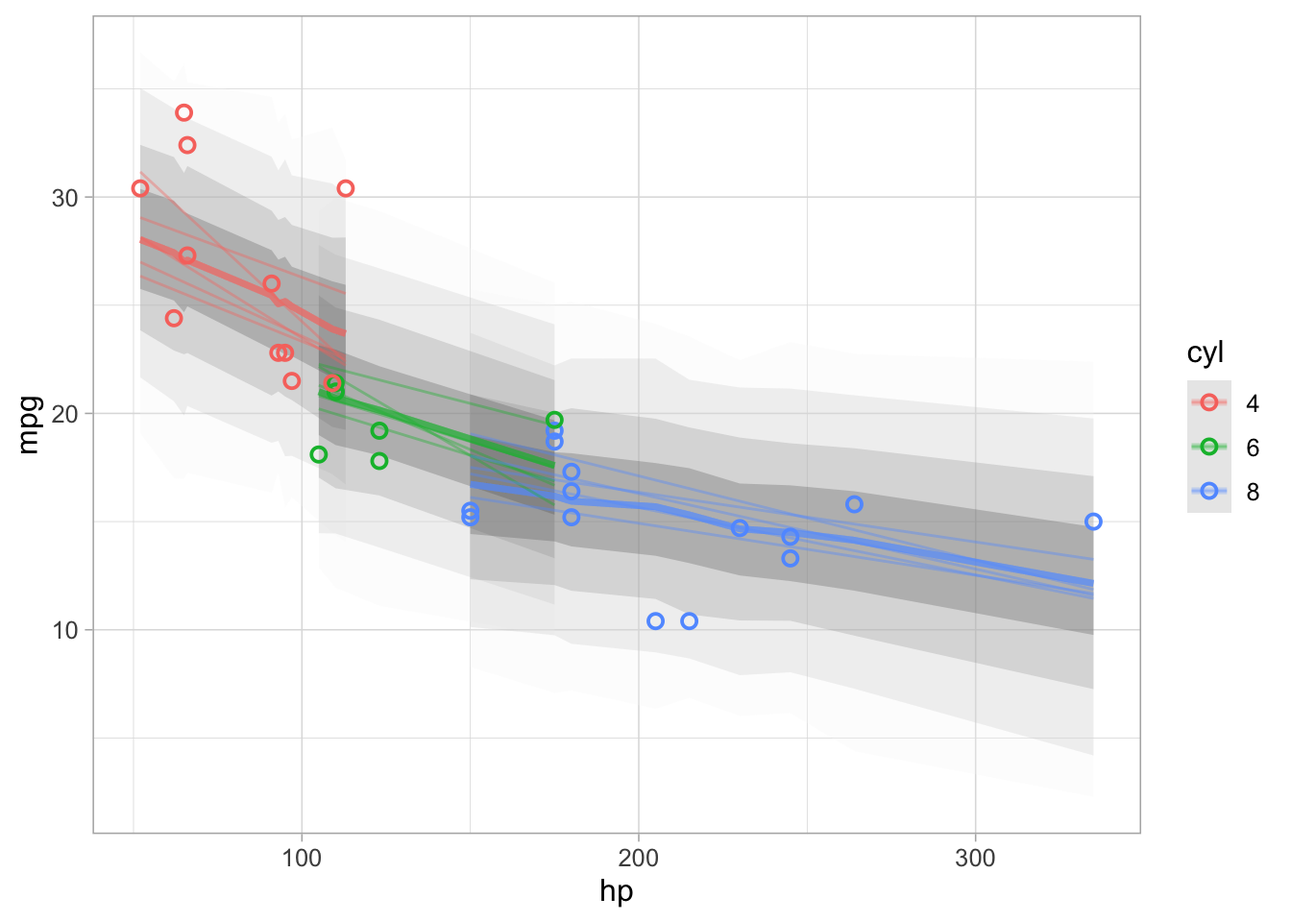
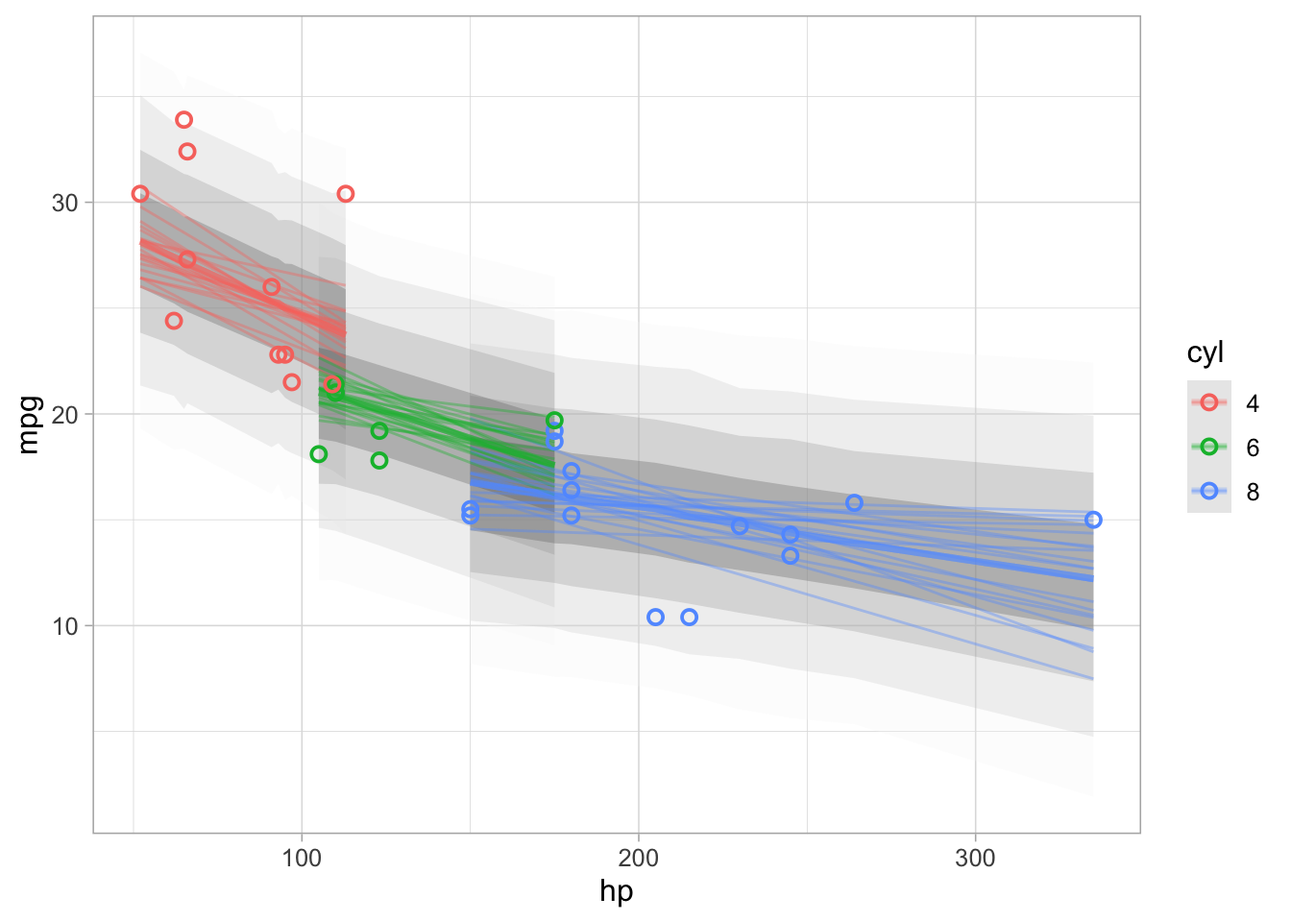
more and more edits, multiple chains

diff --git a/_site/posts/2025-05-31-reticulate-pymc/index.html b/_site/posts/2025-05-31-reticulate-pymc/index.html
@@ -190,12 +190,12 @@ pre > code.sourceCode > span > a:first-child::before { text-decoration: underlin
 
 <section id="bayesian-models-python-grammar-of-graphics-r" class="level2">
 <h2 class="anchored" data-anchor-id="bayesian-models-python-grammar-of-graphics-r">Bayesian models (Python) + grammar of graphics (R) = ❤</h2>
-<p>This is a nod to the title of <a href="https://drbenvincent.github.io/posts/mcmc_grammar_of_graphics.html">Benjamin T. Vincent’s blog post</a>, who inspired me to dive further into PyMC. The reason I started looking into using the grammar of graphics with PyMC, was to reduce a barrier and emulate <strong>tidyverse</strong> as much as possible. What if I instead just… use R and PyMC?</p>
-<p>This is also somewhat of a continuation of my <a href="../2025-05-14-tidy-pymc/">last post</a>, where I used the grammar of graphics to vizualize the posterior distributions from a PyMC model. This required extracting the data from the <code>arviz.InferenceData</code> object, and organizing it into a tidy dataframe to work with.</p>
+<p>The heading is a nod to the title of <a href="https://drbenvincent.github.io/posts/mcmc_grammar_of_graphics.html">Benjamin T. Vincent’s blog post</a> about using the grammar-of-graphics with PyMC, and what inspired me to look into different ways of working with PyMC.</p>
+<p>This is also somewhat of a continuation of my <a href="../2025-05-14-tidy-pymc/">previous post</a>, where I used the grammar-of-graphics to vizualize the posterior distributions from a PyMC model. Accomplishing this built on Vincent’s work by extracting the data from the high dimensional <code>arviz.InferenceData</code> object, and organizing it into a tidy dataframe to work with.</p>
 <section id="but-why" class="level3">
 <h3 class="anchored" data-anchor-id="but-why">But why?</h3>
-<p>In my last post, I incorrectly implemented the formula for the interaction model <code>mpg ~ hp * cyl</code>. I needed to explictly add in a variable so that we have <code>mpg ~ hp + cyl + hp:cyl</code>. To correct that, I’ve added the interaction variable that <code>lm()</code> or <code>brms:</code> would implicitly handle. Additionally, I centered the variables that would help prevent unnecessary divergece issues that would occur without it.</p>
-<p>This is what I enjoy about PyMC. In my opinion, it is a good blend of needing to be explicit with the data generating process, while still abstracting things like typing, loops, etc., and I find it great for learning. The only problem is is the lack of Tidyverse for everything before and after the model.</p>
+<p>In the first post, I implemented the formula incorrectly for the interaction model: <code>mpg ~ hp * cyl</code>. The interaction term needed to be explictly added in to look like: <code>mpg ~ hp + cyl + hp:cyl</code>. To rectify that I’ve added the interaction variable to the data passed into the model, which functions like <code>lm()</code> or <code>brms:brm()</code> would implicitly handle. Additionally, I centered the variables to help prevent unnecessary divergece issues.</p>
+<p>Striking the right balance of abstraction in Bayesian frameworks is delicate, and in my view, PyMC does a good job preserving the explicit structure of the data-generating process while abstracting away lower-level details like data types and iteration. Because of this, I find it a great tool for learning. With so much to learn in both the statistical theory and the frameworks of probablistic programming languages, anything to reduce the cognitive load is beneficial. Using the Tidyverse to express declaritve ways to work with data before and after the model fit can help.</p>
 <div class="callout callout-style-default callout-note callout-titled">
 <div class="callout-header d-flex align-content-center" data-bs-toggle="collapse" data-bs-target=".callout-1-contents" aria-controls="callout-1" aria-expanded="false" aria-label="Toggle callout">
 <div class="callout-icon-container">
@@ -208,19 +208,20 @@ Note
 </div>
 <div id="callout-1" class="callout-1-contents callout-collapse collapse">
 <div class="callout-body-container callout-body">
-<p>An R user is probably bewildered and still wondering <em>but why?</em> R has access to Stan and several packages that interface with it, including the brilliant <code>brms</code> package. Most R users are Stan users.</p>
-<p>I started out, like many others, with Statistical Rethinking by Richard McElreath<a href="#fn1" class="footnote-ref" id="fnref1" role="doc-noteref"><sup>1</sup></a>. However I abandoned the <code>rethinking</code> package too soon, and felt like I didn’t know enough to jump into Stan directly. At the same time I had no idea if <code>brms</code> was doing exactly what I expected when I started to work on my own messy real world examples, and that is where PyMC came in for me.</p>
+<p>An R user reading this is probably bewildered and still wondering <em>but why?</em> R has access to Stan and several packages that interface with it, including the brilliant <code>brms</code> package. Most R users are Stan users.</p>
+<p>I started out, like many others, with Statistical Rethinking by Richard McElreath<a href="#fn1" class="footnote-ref" id="fnref1" role="doc-noteref"><sup>1</sup></a>. As a longtime R user, the data wrangling was something I comfortable with. Trying to use base R and <code>rethinking</code> to work with the posterior ended up adding more friction while learning. I felt comfortable using <code>brms</code> and moved off of <code>rethininking</code>, but when it came to exploring my own real-world applications[^side-note] – I felt stuck. There was too much abstraction in <code>brms</code> and I didn’t know enough to jump into Stan directly. That is where I began to look at PyMC.</p>
+<p>McElreath intentionally built <code>rethinking</code> to be explicit and the course is designed to hammer in all sorts of regression techniques with it. For new folks diving into the course, I think I would reccommend using <code>rethinking</code> with <a href="https://mjskay.github.io/tidybayes.rethinking/articles/tidy-rethinking.html"><code>tidybayes.rethinking</code></a>. <code>rethinking</code> will force good fundementals building out the model, and you can still use <code>tidybayes</code> to work with the posterior in a tidy format.</p>
 </div>
 </div>
 </div>
 </section>
 <section id="how" class="level3">
 <h3 class="anchored" data-anchor-id="how">How</h3>
-<p>This was all doable before with Reticulate, but I recently had a chance to use the <a href="https://posit.co/blog/reticulate-1-41/">new version of Reticulate</a> which uses <code>uv</code> to manage the Python environment. I assumed you would need to some degree manage a seperate Python environment for anything signifcant. However, from the post:</p>
+<p>This was all doable before with Reticulate, but I recently had a chance to use the <a href="https://posit.co/blog/reticulate-1-41/">new version of Reticulate</a> which uses <code>uv</code> to manage the Python environment. I assumed you would need manage a seperate Python environment to some degree. However, from the post:</p>
 <blockquote class="blockquote">
 <p>with <code>py_require()</code>, Reticulate will automatically create and manage Python environments behind the scenes so you don’t have to.</p>
 </blockquote>
-<p>I had a use case to use it for a simple package integration, and it was wonderful. I came away thinking of ways to push it further.</p>
+<p>I used it for a simple package integration, but came away so impressed with its performance – all while not having to manage anything in Python. Reticulate handles the installation of <code>uv</code> if not already available, and will take care of everything else for you.</p>
 </section>
 </section>
 <section id="workflow" class="level2">
@@ -376,34 +377,32 @@ Note
 </section>
 <section id="reticulate-and-uv-environment" class="level3">
 <h3 class="anchored" data-anchor-id="reticulate-and-uv-environment">Reticulate and uv environment</h3>
-<p>The function <code>reticulate::py_require()</code> will specify which packages are needed for the project or workflow, and pass them to <code>uv</code> to resolve all the dependencies and create the Python virtual environment. This is feasible due to how performant <code>uv</code> is.</p>
-<p>I’ve listend to enough talks from Charlie Marsh<a href="#fn2" class="footnote-ref" id="fnref2" role="doc-noteref"><sup>2</sup></a> to know I can’t fully explain what <code>uv</code> does, but an oversimplification of it is that <code>uv</code> centralizes package downloads and resolves dependencies at the environment level so that you do not have to reinstall packages across environments.<a href="#fn3" class="footnote-ref" id="fnref3" role="doc-noteref"><sup>3</sup></a></p>
+<p>The function <code>reticulate::py_require()</code> will specify which packages are needed for the project or workflow, and pass them to <code>uv</code> to resolve all the dependencies for the Python virtual environment. This is feasible to do ephemerally due to how performant <code>uv</code> is.</p>
+<p>I’ve listend to enough talks from Charlie Marsh<a href="#fn2" class="footnote-ref" id="fnref2" role="doc-noteref"><sup>2</sup></a> to know I can’t do it justice to explain how <code>uv</code> works. An oversimplification of the process is that <code>uv</code> centralizes package downloads, and then resolves dependencies at the environment level so that you do not have to reinstall packages across environments.<a href="#fn3" class="footnote-ref" id="fnref3" role="doc-noteref"><sup>3</sup></a></p>
+<p>To use it with Reticulate, simply run:</p>
 <div class="cell">
 <div class="sourceCode cell-code" id="cb2"><pre class="sourceCode r code-with-copy"><code class="sourceCode r"><span id="cb2-1"><a href="#cb2-1" aria-hidden="true" tabindex="-1"></a><span class="fu">py_require</span>(<span class="st">'pymc'</span>)</span>
-<span id="cb2-2"><a href="#cb2-2" aria-hidden="true" tabindex="-1"></a><span class="fu">py_config</span>()</span></code><button title="Copy to Clipboard" class="code-copy-button"><i class="bi"></i></button></pre></div>
+<span id="cb2-2"><a href="#cb2-2" aria-hidden="true" tabindex="-1"></a><span class="fu">py_config</span>() <span class="co"># only if you want to look at the config</span></span></code><button title="Copy to Clipboard" class="code-copy-button"><i class="bi"></i></button></pre></div>
 <div class="cell-output cell-output-stdout">
-<pre><code>python:         /Users/ryan/Library/Caches/org.R-project.R/R/reticulate/uv/cache/archive-v0/gKtLQ4Ys-srj2T0OKKL-t/bin/python3
+<pre><code>python:         /Users/ryan/Library/Caches/org.R-project.R/R/reticulate/uv/cache/archive-v0/iNd5Zf03UOAIdigTZPziA/bin/python3
 libpython:      /Users/ryan/Library/Caches/org.R-project.R/R/reticulate/uv/python/cpython-3.11.12-macos-aarch64-none/lib/libpython3.11.dylib
-pythonhome:     /Users/ryan/Library/Caches/org.R-project.R/R/reticulate/uv/cache/archive-v0/gKtLQ4Ys-srj2T0OKKL-t:/Users/ryan/Library/Caches/org.R-project.R/R/reticulate/uv/cache/archive-v0/gKtLQ4Ys-srj2T0OKKL-t
-virtualenv:     /Users/ryan/Library/Caches/org.R-project.R/R/reticulate/uv/cache/archive-v0/gKtLQ4Ys-srj2T0OKKL-t/bin/activate_this.py
+pythonhome:     /Users/ryan/Library/Caches/org.R-project.R/R/reticulate/uv/cache/archive-v0/iNd5Zf03UOAIdigTZPziA:/Users/ryan/Library/Caches/org.R-project.R/R/reticulate/uv/cache/archive-v0/iNd5Zf03UOAIdigTZPziA
+virtualenv:     /Users/ryan/Library/Caches/org.R-project.R/R/reticulate/uv/cache/archive-v0/iNd5Zf03UOAIdigTZPziA/bin/activate_this.py
 version:        3.11.12 (main, May 30 2025, 05:53:55) [Clang 20.1.4 ]
-numpy:          /Users/ryan/Library/Caches/org.R-project.R/R/reticulate/uv/cache/archive-v0/gKtLQ4Ys-srj2T0OKKL-t/lib/python3.11/site-packages/numpy
+numpy:          /Users/ryan/Library/Caches/org.R-project.R/R/reticulate/uv/cache/archive-v0/iNd5Zf03UOAIdigTZPziA/lib/python3.11/site-packages/numpy
 numpy_version:  2.2.6
 
 NOTE: Python version was forced by py_require()</code></pre>
 </div>
 </div>
-<p>Wow! You can see that we have an ephemeral Python environment created with <code>uv</code> to use with <code>reticulate</code>. Everytime this document is rendered, <code>reticulate</code> and <code>uv</code> will cache a new virtual environment to use. PyMC and its dependencies only had to be downloaded the first time. Also shown via CLI is that this took only <code>456ms</code> on this machine.</p>
-</section>
-<section id="one-requirement-many-dependencies" class="level3">
-<h3 class="anchored" data-anchor-id="one-requirement-many-dependencies">one requirement, many dependencies</h3>
+<p>Wow! You can see that we have an ephemeral Python environment created with <code>uv</code> to be used with <code>reticulate</code>. Everytime this document is rendered, <code>reticulate</code> and <code>uv</code> will cache a new virtual environment to use. PyMC and all of its dependencies only had to be downloaded once. Not shown here but via CLI is that this process only took <code>456ms</code> on this machine.</p>
 <p>Specifying <code>pymc</code> with <code>py_require()</code> actually built a Python environment with a list of packages needed, all mapped and configured with <code>uv</code>. I’ve shown some of the most well-known dependencies included.</p>
 <div class="cell">
 <div class="sourceCode cell-code" id="cb4"><pre class="sourceCode r code-with-copy"><code class="sourceCode r"><span id="cb4-1"><a href="#cb4-1" aria-hidden="true" tabindex="-1"></a><span class="fu">py_list_packages</span>() <span class="sc">|&gt;</span> <span class="fu">dim</span>()</span></code><button title="Copy to Clipboard" class="code-copy-button"><i class="bi"></i></button></pre></div>
 <div class="cell-output cell-output-stdout">
 <pre><code>[1] 37  3</code></pre>
 </div>
-<div class="sourceCode cell-code" id="cb6"><pre class="sourceCode r code-with-copy"><code class="sourceCode r"><span id="cb6-1"><a href="#cb6-1" aria-hidden="true" tabindex="-1"></a><span class="fu">py_list_packages</span>() <span class="sc">|&gt;</span> dplyr<span class="sc">::</span><span class="fu">filter</span>(package <span class="sc">%in%</span> <span class="fu">c</span>(<span class="st">'pandas'</span>, <span class="st">'scipy'</span>, <span class="st">'matplotlib'</span>, <span class="st">'arviz'</span>))</span></code><button title="Copy to Clipboard" class="code-copy-button"><i class="bi"></i></button></pre></div>
+<div class="sourceCode cell-code" id="cb6"><pre class="sourceCode r code-with-copy"><code class="sourceCode r"><span id="cb6-1"><a href="#cb6-1" aria-hidden="true" tabindex="-1"></a><span class="fu">py_list_packages</span>() <span class="sc">|&gt;</span> dplyr<span class="sc">::</span><span class="fu">filter</span>(package <span class="sc">%in%</span> <span class="fu">c</span>(<span class="st">'pandas'</span>, <span class="st">'scipy'</span>, <span class="st">'matplotlib'</span>, <span class="st">'arviz'</span>, <span class="st">'pytensor'</span>))</span></code><button title="Copy to Clipboard" class="code-copy-button"><i class="bi"></i></button></pre></div>
 <div class="cell-output-display">
 <div class="kable-table">
 <table class="table table-sm table-striped small">
@@ -431,6 +430,11 @@ NOTE: Python version was forced by py_require()</code></pre>
 <td style="text-align: left;">pandas==2.2.3</td>
 </tr>
 <tr class="even">
+<td style="text-align: left;">pytensor</td>
+<td style="text-align: left;">2.31.3</td>
+<td style="text-align: left;">pytensor==2.31.3</td>
+</tr>
+<tr class="odd">
 <td style="text-align: left;">scipy</td>
 <td style="text-align: left;">1.15.3</td>
 <td style="text-align: left;">scipy==1.15.3</td>
@@ -443,7 +447,7 @@ NOTE: Python version was forced by py_require()</code></pre>
 </section>
 <section id="set-up-the-data" class="level3">
 <h3 class="anchored" data-anchor-id="set-up-the-data">Set up the data</h3>
-<p>As I mentioned before some transformations are needed, and it is great to be able to use the Tidyverse.</p>
+<p>As I mentioned before some basic transformations are needed, and it is great to be able to use the Tidyverse here. You can imagine a set of more complex joins, filters, and features created.</p>
 <div class="cell">
 <div class="sourceCode cell-code" id="cb7"><pre class="sourceCode r code-with-copy"><code class="sourceCode r"><span id="cb7-1"><a href="#cb7-1" aria-hidden="true" tabindex="-1"></a>mtcars_scaled <span class="ot">&lt;-</span> mtcars <span class="sc">%&gt;%</span></span>
 <span id="cb7-2"><a href="#cb7-2" aria-hidden="true" tabindex="-1"></a>  <span class="fu">mutate</span>(</span>
@@ -455,7 +459,7 @@ NOTE: Python version was forced by py_require()</code></pre>
 </section>
 <section id="r-to-python" class="level3">
 <h3 class="anchored" data-anchor-id="r-to-python">R to Python</h3>
-<p>PyMC doesn’t work with R, and will need objects and data types that it knows how to use. <code>reticulate::r_to_py()</code> will handle that.</p>
+<p>PyMC doesn’t work with R, and we will need objects and data types that it knows how to use. <code>reticulate::r_to_py()</code> will handle that.</p>
 <div class="cell">
 <div class="sourceCode cell-code" id="cb8"><pre class="sourceCode r code-with-copy"><code class="sourceCode r"><span id="cb8-1"><a href="#cb8-1" aria-hidden="true" tabindex="-1"></a>pandas_mtcars <span class="ot">&lt;-</span> <span class="fu">r_to_py</span>(mtcars_scaled)</span>
 <span id="cb8-2"><a href="#cb8-2" aria-hidden="true" tabindex="-1"></a><span class="fu">print</span>(<span class="fu">class</span>(mtcars_scaled))</span></code><button title="Copy to Clipboard" class="code-copy-button"><i class="bi"></i></button></pre></div>
@@ -492,7 +496,7 @@ Warning
 </section>
 <section id="pymc-model" class="level3">
 <h3 class="anchored" data-anchor-id="pymc-model">PyMC Model</h3>
-<p>The Python sytax would look very similar to this, only now instead of using objects with dot notation, we access methods and attributes with the <code>$</code> character. If you are purely a Python developer, this might look obscene. This post requires a specifc subset of being interested in using PyMC and R together and might only be relevant for n=1, but the 1 is me.</p>
+<p>The Python sytax would look very similar to this, with one of the main changes being instead of using dot notation, methods and attributes are accessed with the <code>$</code> character. If you are purely a Python developer, this might look obscene. This post requires a specifc subset of being interested in using PyMC and R together and might only be relevant for a sample of n=1, but the 1 is me.</p>
 <p>Python code from before.</p>
 <div class="cell">
 <details>
@@ -558,14 +562,20 @@ Warning
 <span id="cb13-28"><a href="#cb13-28" aria-hidden="true" tabindex="-1"></a>  )</span>
 <span id="cb13-29"><a href="#cb13-29" aria-hidden="true" tabindex="-1"></a>  <span class="co"># using a single core and chain because of Quarto page rendering,</span></span>
 <span id="cb13-30"><a href="#cb13-30" aria-hidden="true" tabindex="-1"></a>  <span class="co"># normally this would be 4 chains</span></span>
-<span id="cb13-31"><a href="#cb13-31" aria-hidden="true" tabindex="-1"></a>  idata <span class="ot">=</span> pm<span class="sc">$</span><span class="fu">sample</span>(<span class="at">random_seed =</span> 527L, <span class="at">cores =</span> 1L, <span class="at">chains=</span>1L)</span>
+<span id="cb13-31"><a href="#cb13-31" aria-hidden="true" tabindex="-1"></a>  idata <span class="ot">=</span> pm<span class="sc">$</span><span class="fu">sample</span>(<span class="at">random_seed =</span> 527L, <span class="at">cores =</span> 1L, <span class="at">chains=</span>4L)</span>
 <span id="cb13-32"><a href="#cb13-32" aria-hidden="true" tabindex="-1"></a>})</span></code><button title="Copy to Clipboard" class="code-copy-button"><i class="bi"></i></button></pre></div>
 <div class="cell-output cell-output-stdout">
 <pre><code>                                                                                
                               Step      Grad      Sampli…                       
   Progre…   Draws   Diverg…   size      evals     Speed     Elapsed   Remaini…  
  ────────────────────────────────────────────────────────────────────────────── 
-  ━━━━━━━   2000    0         0.19      15        1488.62   0:00:01   0:00:00   
+  ━━━━━━━   2000    0         0.19      15        1362.02   0:00:01   0:00:00   
+                                                  draws/s                       
+  ━━━━━━━   2000    0         0.14      15        675.41    0:00:02   0:00:00   
+                                                  draws/s                       
+  ━━━━━━━   2000    4         0.17      15        453.62    0:00:04   0:00:00   
+                                                  draws/s                       
+  ━━━━━━━   2000    1         0.14      31        345.58    0:00:05   0:00:00   
                                                   draws/s                       
                                                                                 </code></pre>
 </div>
@@ -588,38 +598,41 @@ Warning
 </section>
 <section id="diagnostics" class="level3">
 <h3 class="anchored" data-anchor-id="diagnostics">Diagnostics</h3>
-<p>This plot isn’t necessarily useful because I used a single chain for Quarto rendering purposes, but all the <code>arviz</code> plots are available. My heart sank a bit when I finally thought about including it. I had already written most of the post and just trying to enhace it a bit. If diagnostic plots weren’t available, this would largely be useless or require the problem I was aiming to avoid of duplicating efforts. So this is great to see!</p>
+<p>As you can see, any of the <a href="https://python.arviz.org/en/stable/index.html">ArviZ</a> plots can be used.</p>
+<p>My heart sank a bit when I finally thought about including this in, as I had already written most of the post and was adding some finishing touches. If diagnostic plots weren’t available, this would all either be useless or require the very problem I sought out to destroy – duplicating efforts across environments. I didn’t become Anakin, an this is great to see!</p>
 <div class="cell">
 <div class="sourceCode cell-code" id="cb17"><pre class="sourceCode r code-with-copy"><code class="sourceCode r"><span id="cb17-1"><a href="#cb17-1" aria-hidden="true" tabindex="-1"></a>az <span class="ot">&lt;-</span> <span class="fu">import</span>(<span class="st">'arviz'</span>, <span class="at">convert =</span> <span class="cn">FALSE</span>)</span>
 <span id="cb17-2"><a href="#cb17-2" aria-hidden="true" tabindex="-1"></a>plt <span class="ot">&lt;-</span> <span class="fu">import</span>(<span class="st">"matplotlib.pyplot"</span>, <span class="at">convert =</span> <span class="cn">FALSE</span>)</span>
 <span id="cb17-3"><a href="#cb17-3" aria-hidden="true" tabindex="-1"></a>az<span class="sc">$</span><span class="fu">plot_trace</span>(idata, <span class="at">var_names =</span> <span class="fu">c</span>(<span class="st">'alpha'</span>, <span class="st">'b'</span>, <span class="st">'sigma'</span>))</span>
 <span id="cb17-4"><a href="#cb17-4" aria-hidden="true" tabindex="-1"></a>plt<span class="sc">$</span><span class="fu">show</span>()</span></code><button title="Copy to Clipboard" class="code-copy-button"><i class="bi"></i></button></pre></div>
 </div>
-<p><img src="trace-plot.png" class="img-fluid"></p>
+<p><img src="trace_plot.png" class="img-fluid"></p>
 </section>
 <section id="posterior" class="level3">
 <h3 class="anchored" data-anchor-id="posterior">Posterior</h3>
 <p>Translating the PyMC model’s <code>arviz.InferenceData</code> object and posterior predictions to dataframes is still the same, with the addition of <code>reticulate::py_to_r()</code> to convert a pandas dataframe to R.</p>
 <div class="cell">
 <div class="sourceCode cell-code" id="cb18"><pre class="sourceCode r code-with-copy"><code class="sourceCode r"><span id="cb18-1"><a href="#cb18-1" aria-hidden="true" tabindex="-1"></a><span class="co"># posterior mu</span></span>
-<span id="cb18-2"><a href="#cb18-2" aria-hidden="true" tabindex="-1"></a>df_posterior <span class="ot">&lt;-</span> idata<span class="sc">$</span>posterior<span class="sc">$</span>mu<span class="sc">$</span><span class="fu">to_dataframe</span>()<span class="sc">$</span><span class="fu">reset_index</span>() <span class="sc">|&gt;</span></span>
-<span id="cb18-3"><a href="#cb18-3" aria-hidden="true" tabindex="-1"></a>  <span class="fu">py_to_r</span>() <span class="sc">|&gt;</span></span>
-<span id="cb18-4"><a href="#cb18-4" aria-hidden="true" tabindex="-1"></a>  <span class="fu">as_tibble</span>() <span class="sc">|&gt;</span></span>
-<span id="cb18-5"><a href="#cb18-5" aria-hidden="true" tabindex="-1"></a>  <span class="fu">left_join</span>(<span class="fu">rownames_to_column</span>(mtcars, <span class="st">'car'</span>)) <span class="sc">|&gt;</span> <span class="co"># R mtcars has rownames for the car</span></span>
-<span id="cb18-6"><a href="#cb18-6" aria-hidden="true" tabindex="-1"></a>  <span class="fu">mutate</span>(<span class="at">group =</span> <span class="fu">paste0</span>(chain, draw, cyl)) <span class="co"># for a particular plot later</span></span></code><button title="Copy to Clipboard" class="code-copy-button"><i class="bi"></i></button></pre></div>
+<span id="cb18-2"><a href="#cb18-2" aria-hidden="true" tabindex="-1"></a><span class="co"># reset index to include chain, draw, and index</span></span>
+<span id="cb18-3"><a href="#cb18-3" aria-hidden="true" tabindex="-1"></a>df_posterior <span class="ot">&lt;-</span> idata[<span class="st">"posterior"</span>][<span class="st">'mu'</span>]<span class="sc">$</span><span class="fu">to_dataframe</span>()<span class="sc">$</span><span class="fu">reset_index</span>() <span class="sc">|&gt;</span></span>
+<span id="cb18-4"><a href="#cb18-4" aria-hidden="true" tabindex="-1"></a>  <span class="fu">py_to_r</span>() <span class="sc">|&gt;</span></span>
+<span id="cb18-5"><a href="#cb18-5" aria-hidden="true" tabindex="-1"></a>  <span class="fu">as_tibble</span>() <span class="sc">|&gt;</span></span>
+<span id="cb18-6"><a href="#cb18-6" aria-hidden="true" tabindex="-1"></a>  <span class="fu">left_join</span>(<span class="fu">rownames_to_column</span>(mtcars, <span class="st">'car'</span>)) <span class="sc">|&gt;</span> <span class="co"># R mtcars has rownames for the car</span></span>
+<span id="cb18-7"><a href="#cb18-7" aria-hidden="true" tabindex="-1"></a>  <span class="fu">mutate</span>(<span class="at">group =</span> <span class="fu">paste0</span>(chain, draw, cyl)) <span class="co"># for a particular plot later</span></span></code><button title="Copy to Clipboard" class="code-copy-button"><i class="bi"></i></button></pre></div>
 <div class="cell-output cell-output-stderr">
 <pre><code>Joining with `by = join_by(car)`</code></pre>
 </div>
 <div class="sourceCode cell-code" id="cb20"><pre class="sourceCode r code-with-copy"><code class="sourceCode r"><span id="cb20-1"><a href="#cb20-1" aria-hidden="true" tabindex="-1"></a><span class="co"># posterior predictions of mpg</span></span>
-<span id="cb20-2"><a href="#cb20-2" aria-hidden="true" tabindex="-1"></a>df_predictions <span class="ot">&lt;-</span> pp<span class="sc">$</span>predictions<span class="sc">$</span><span class="fu">to_dataframe</span>()<span class="sc">$</span><span class="fu">reset_index</span>() <span class="sc">|&gt;</span></span>
-<span id="cb20-3"><a href="#cb20-3" aria-hidden="true" tabindex="-1"></a>  <span class="fu">py_to_r</span>() <span class="sc">|&gt;</span></span>
-<span id="cb20-4"><a href="#cb20-4" aria-hidden="true" tabindex="-1"></a>  <span class="fu">as_tibble</span>() <span class="sc">|&gt;</span></span>
-<span id="cb20-5"><a href="#cb20-5" aria-hidden="true" tabindex="-1"></a>  <span class="fu">left_join</span>(<span class="fu">rownames_to_column</span>(mtcars, <span class="st">"car"</span>))</span></code><button title="Copy to Clipboard" class="code-copy-button"><i class="bi"></i></button></pre></div>
+<span id="cb20-2"><a href="#cb20-2" aria-hidden="true" tabindex="-1"></a><span class="co"># can also access az.InferenceData objects with `$`</span></span>
+<span id="cb20-3"><a href="#cb20-3" aria-hidden="true" tabindex="-1"></a>df_predictions <span class="ot">&lt;-</span> pp<span class="sc">$</span>predictions<span class="sc">$</span><span class="fu">to_dataframe</span>()<span class="sc">$</span><span class="fu">reset_index</span>() <span class="sc">|&gt;</span></span>
+<span id="cb20-4"><a href="#cb20-4" aria-hidden="true" tabindex="-1"></a>  <span class="fu">py_to_r</span>() <span class="sc">|&gt;</span></span>
+<span id="cb20-5"><a href="#cb20-5" aria-hidden="true" tabindex="-1"></a>  <span class="fu">as_tibble</span>() <span class="sc">|&gt;</span></span>
+<span id="cb20-6"><a href="#cb20-6" aria-hidden="true" tabindex="-1"></a>  <span class="fu">left_join</span>(<span class="fu">rownames_to_column</span>(mtcars, <span class="st">"car"</span>))</span></code><button title="Copy to Clipboard" class="code-copy-button"><i class="bi"></i></button></pre></div>
 <div class="cell-output cell-output-stderr">
 <pre><code>Joining with `by = join_by(car)`</code></pre>
 </div>
 </div>
-<p>We’re back in R, doing joins with the Tidyverse!</p>
+<p>We’re completely back in R, doing joins with the Tidyverse!</p>
 </section>
 <section id="plot" class="level3">
 <h3 class="anchored" data-anchor-id="plot">Plot</h3>
@@ -650,7 +663,7 @@ Warning
 </section>
 <section id="rython" class="level2">
 <h2 class="anchored" data-anchor-id="rython">Rython</h2>
-<p>This is an opinionated way of using PyMC and the grammar of graphics together to say the least. I really do like PyMC, but I prefer to settle on the data and other parts of the model iteration process with R if possible. There is potential for <code>reticulate::py_run_string()</code> as well, if you wanted to be able to drop it directly back into a pure Python environment. Access to an LLM would also be able to easily reformat the R-PyMC model to Python, or at least get it most of the way there.</p>
+<p>This is an opinionated way of using PyMC and the grammar-of-graphics together to say the least. I really do like PyMC, but I prefer to settle on the data and other parts of the model iteration process with R if possible. There is potential for <code>reticulate::py_run_string()</code> as well, if you wanted to be able to drop it directly back into a pure Python environment. Any AI model would also be able to easily reformat the R-PyMC model to Python, or at least get it most of the way there.</p>
 <p>I’m genuinely impressed by how far integrating R and Python has come. When I started my career, you had to do a bunch of clunky I/O to get features of both languages. Now, in a single workflow, I can use a full-featured Python probabilistic programming library alongside R’s non-standard evaluation for data transformation and visualization.</p>
 <p>A typo I had in drafting this at one point was <em>Rython</em>, and given my name… I quite like it.</p>
 

diff --git a/_site/index.html b/_site/index.html
@@ -170,9 +170,9 @@ ul.task-list li input[type="checkbox"] {
 
 <div class="quarto-listing quarto-listing-container-default" id="listing-listing">
 <div class="list quarto-listing-default">
-<div class="quarto-post image-right" data-index="0" data-categories="Bayesian,PyMC,Reticulate" data-listing-date-sort="1748671200000" data-listing-file-modified-sort="1748841991739" data-listing-date-modified-sort="NaN" data-listing-reading-time-sort="10">
+<div class="quarto-post image-right" data-index="0" data-categories="Bayesian,PyMC,Reticulate" data-listing-date-sort="1748671200000" data-listing-file-modified-sort="1748883632616" data-listing-date-modified-sort="NaN" data-listing-reading-time-sort="10">
 <div class="thumbnail">
-<p><a href="./posts/2025-05-31-reticulate-pymc/index.html"> <p class="card-img-top"><img src="posts/2025-05-31-reticulate-pymc/trace-plot.png"  class="thumbnail-image card-img"/></p> </a></p>
+<p><a href="./posts/2025-05-31-reticulate-pymc/index.html"> <img src="./posts/2025-05-31-reticulate-pymc/tidybayes_plot.png" class="thumbnail-image"> </a></p>
 </div>
 <div class="body">
 <a href="./posts/2025-05-31-reticulate-pymc/index.html">
